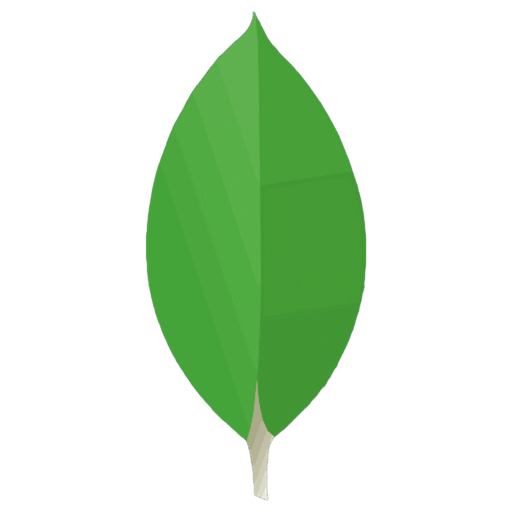
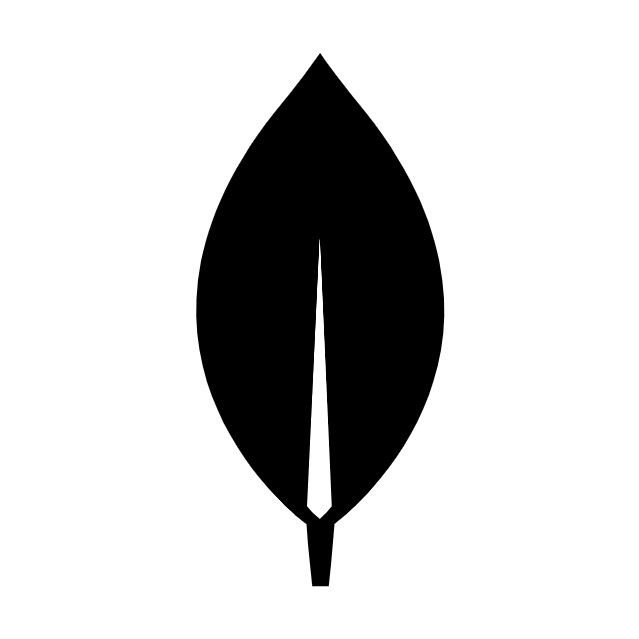
fix

Changed region(s): [[0.2812, 0.0312, 0.7188, 1.0]]

diff --git a/components/skillSection.tsx b/components/skillSection.tsx
@@ -49,7 +49,7 @@ export const SkillSection = () => {
 
           </div>
           <div id="database" className={`w-full h-fit grid place-self-center grid-cols-1 lg:grid-cols-4 lg:col-span-1 justify-items-center justify-center gap-5 items-center transition-opacity duration-200 ${activeSection === 'database' ? 'opacity-100' : 'opacity-0 hidden'}`}>
-            <Card name="MongoDB" src="/skills/mongodb.png" st=""></Card>
+            <Card name="MongoDB" src="/skills/mongodb.png" st="invert dark:invert-0"></Card>
             
             <Card name="MySQL" src="/skills/mysql.png" st=""></Card>
            
